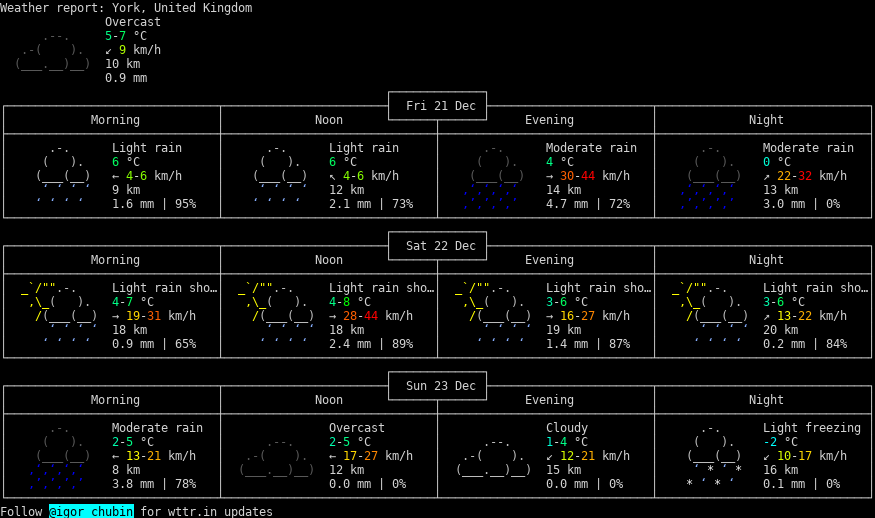
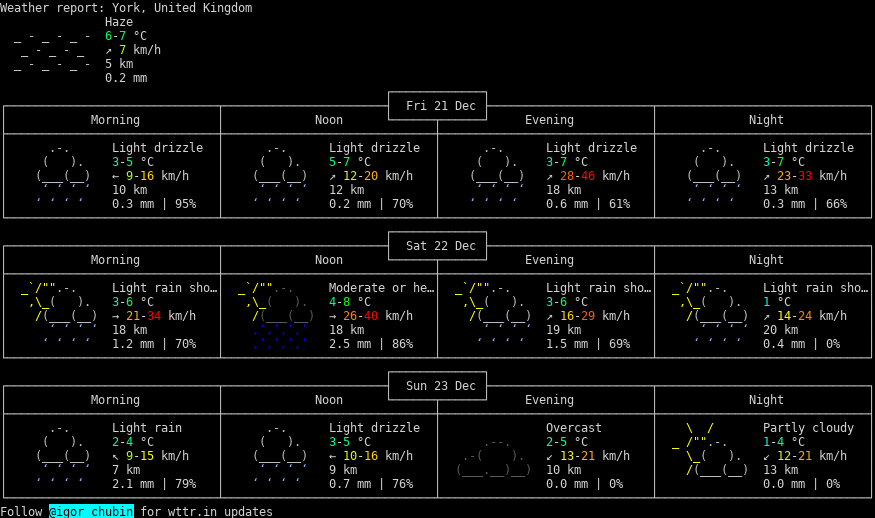
update Today's log:)

diff --git a/README.md b/README.md
@@ -217,3 +217,4 @@ Shell_scripting fun example during Linux OS class with my students
 * 20-12-2018 Thu AM  6:00 GMT   : 2-5°C (Selby, United Kingdom)
 * 20-12-2018 Thu PM 12:00 GMT   : 3-6°C (Selby, United Kingdom)
 * 21-12-2018 Fri AM  6:00 GMT   : 4-6°C (Selby, United Kingdom)
+* 21-12-2018 Fri PM 12:00 GMT   : 3-5°C (Selby, United Kingdom)

diff --git a/weather.md b/weather.md
@@ -823,3 +823,7 @@
 
 ![](img/21-12-2018.png)
 
+21-12-2018
+
+![](img/21-12-2018.png)
+
